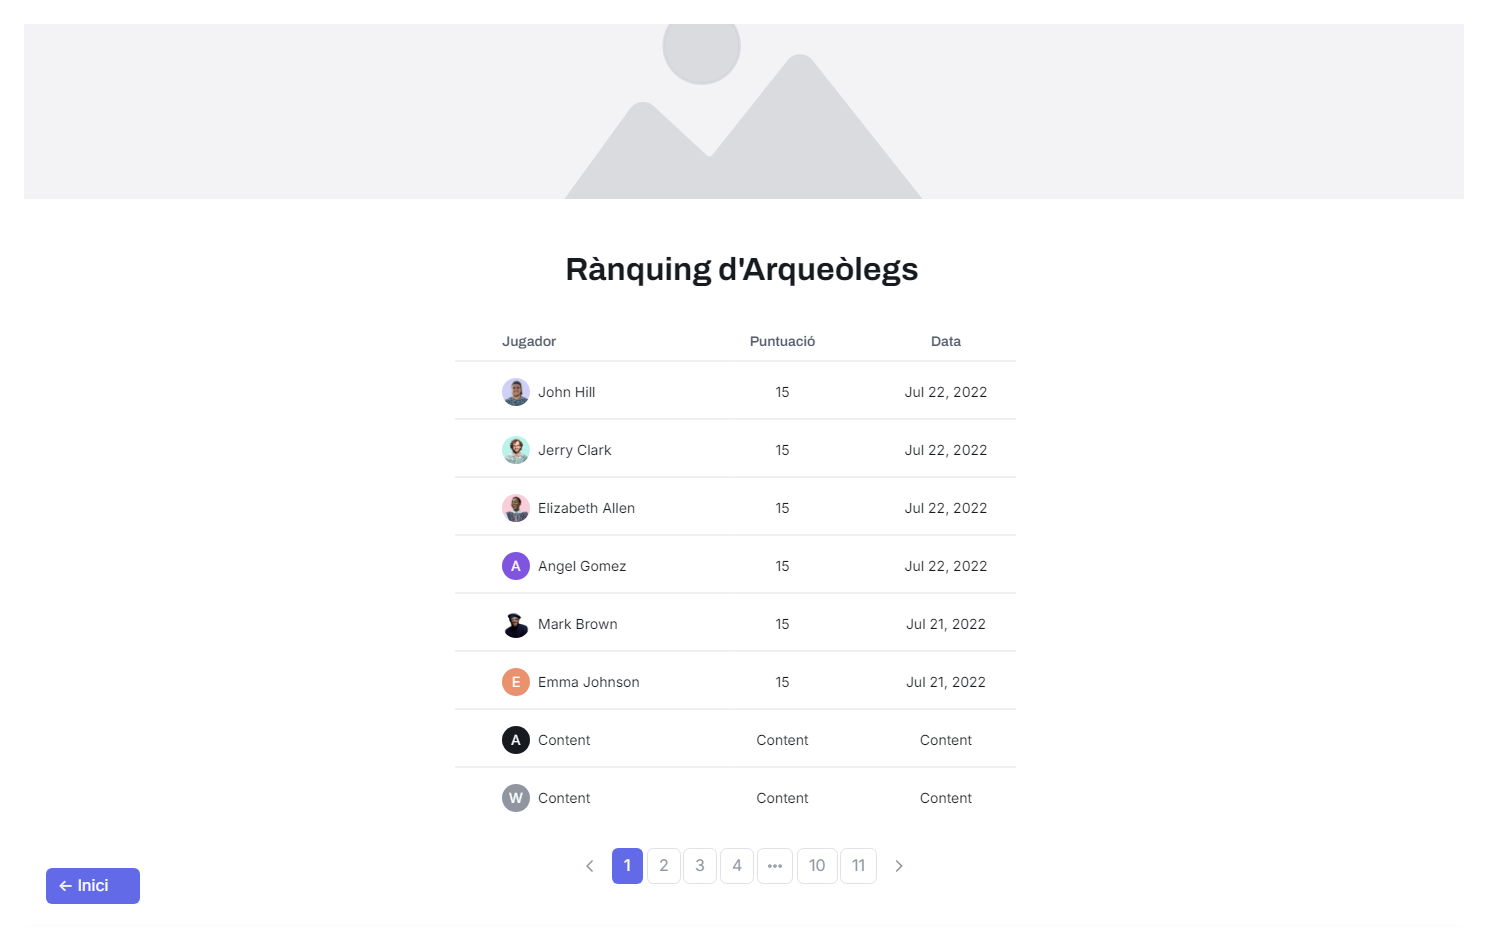
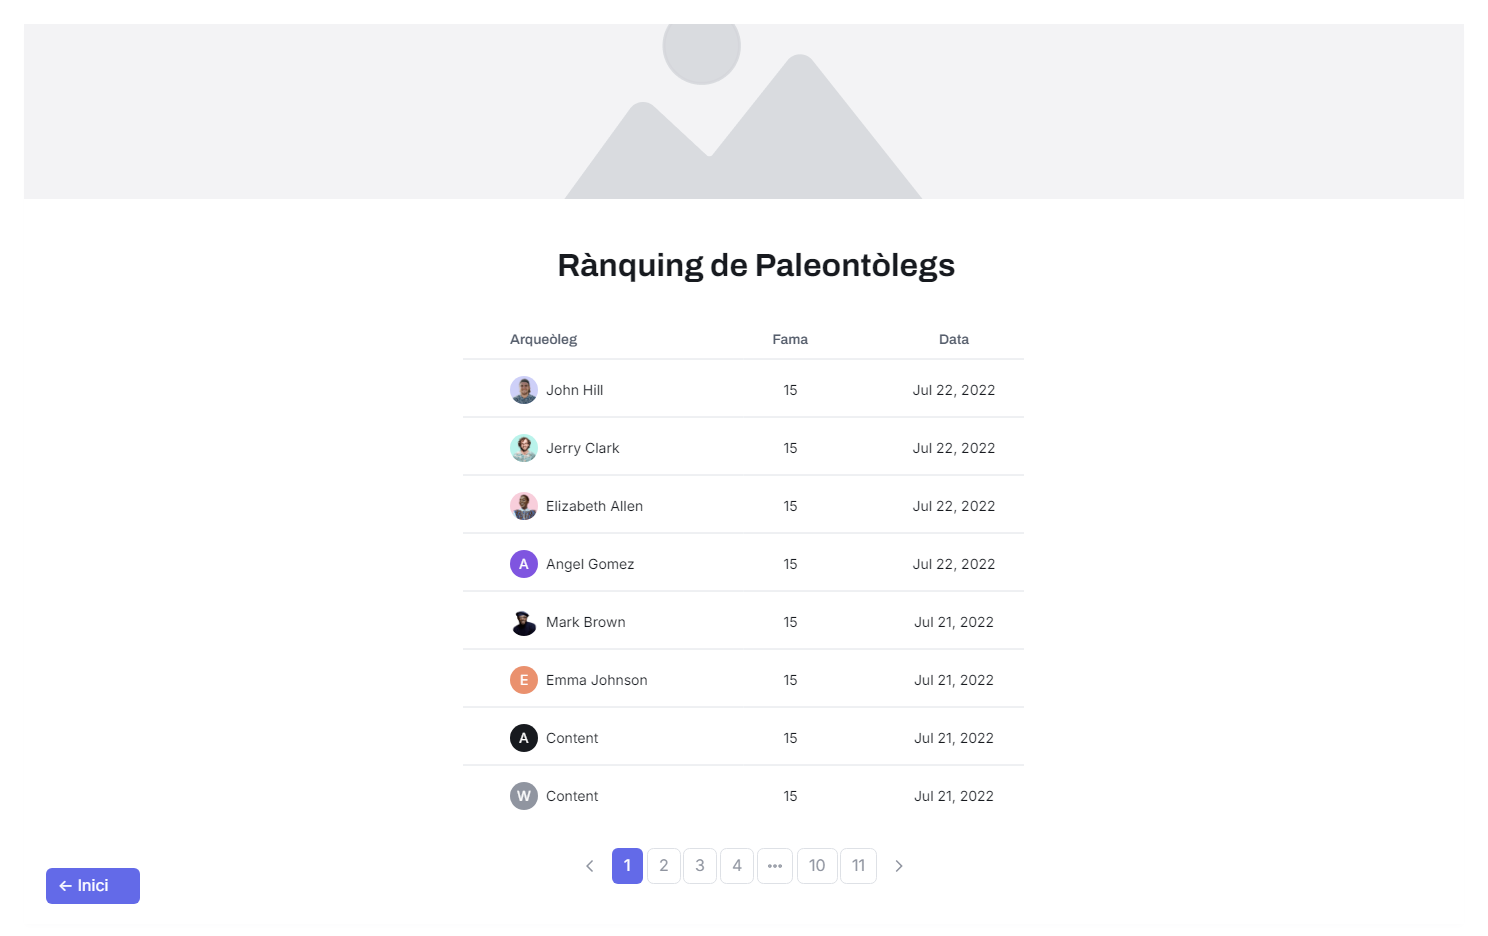
Replace de Arqueologia per Paleontologia

diff --git a/README.md b/README.md
@@ -1,36 +1,42 @@
 # 🦴 Excavació Juràssica
 
-**Benvingut a Excavació Juràssica**, un emocionant joc d'estratègia on hauràs de trobar i desenterrar tots els ossos ocults sota els sediments mil·lenaris. Converteix-te en el millor arqueòleg i fes història!
+**Benvingut a Excavació Juràssica**, un emocionant joc d'estratègia on hauràs de trobar i desenterrar tots els ossos ocults sota els sediments mil·lenaris. Converteix-te en el millor **paleontòleg** 🦕 i fes història!
 
 ## 🖼 Wireframes
 
-El joc es divideix en **3 pàgines principals**, cadascuna amb un paper fonamental per guiar-te en aquesta aventura arqueològica:
+El joc es divideix en **3 pàgines principals**, cadascuna amb un paper fonamental per guiar-te en aquesta aventura paleontològica:
 
 ### 1. Pàgina d'inici
 La primera parada en aquesta aventura! A la **Pàgina d'inici**, podràs:
-- Llegir una breu descripció sobre el joc.
-- Accedir al **Rànquing d'Arqueòlegs** per veure qui són els més prestigiosos.
-- Iniciar una nova excavació fent clic al botó de **"Començar Joc"**.
+- 📜 Llegir una breu descripció sobre el joc.
+- Accedir al **Rànquing de Paleontòlegs** 🏆 per veure qui són els més prestigiosos.
+- Iniciar una nova excavació fent clic al botó de **"Començar Joc"** 🕹.
 
-![Imatge 1: Pantalla d'Inici](./images/Mainpage.png) <!-- Aquí pots afegir l'enllaç a la imatge -->
+<div style="text-align: center;">
+  <img src="./images/main_page.png" alt="Imatge 1: Pantalla d'Inici" width="600"/>
+</div>
 
 ### 2. Pàgina de Joc
 Aquí és on comença la veritable acció! En la **Pàgina de Joc** podràs:
-- Endinsar-te en l'experiència completa d'**Excavació Juràssica**, interactuant amb el tauler.
-- Veure com la teva **fama arqueològica** augmenta amb cada troballa i excavació que realitzes.
-- Controlar el **temps d'excavació**, que es comptabilitza a mesura que progresses.
+- Endinsar-te en l'experiència completa d'**Excavació Juràssica**, interactuant amb el tauler 🦴.
+- Veure com la teva **fama paleontològica** 🏅 augmenta amb cada troballa i excavació que realitzes.
+- Controlar el **temps d'excavació** ⏳, que es comptabilitza a mesura que progresses.
 - Observar el resultat de la teva **última excavació**: què has trobat o si has de seguir excavant.
 - Consultar quins **ossos segueixen ocults** sota terra i planificar la teva pròxima jugada.
-- Seguir una **descripció detallada** que et guiarà per obtenir el màxim de **fama** i optimitzar les teves accions.
+- Seguir una **descripció detallada** 🧐 que et guiarà per obtenir el màxim de **fama** i optimitzar les teves accions.
 
-![Imatge 2: Pantalla de Joc](./images/Game_screen.png)
+<div style="text-align: center;">
+  <img src="./images/Game_screen.png" alt="Imatge 2: Pantalla de Joc" width="600"/>
+</div>
 
-### 3. Rànquing d'Arqueòlegs
-Aquesta és la pàgina dels campions! En el **Rànquing d'Arqueòlegs** podràs:
-- Veure el **rànquing** amb els arqueòlegs més famosos i amb més fama acumulada.
-- Comprovar si el teu nom ha arribat a les primeres posicions!
+### 3. Rànquing de Paleontòlegs
+Aquesta és la pàgina dels campions! En el **Rànquing de Paleontòlegs** podràs:
+- Veure el **rànquing** amb els paleontòlegs més famosos 🥇 i amb més fama acumulada.
+- Comprovar si el teu nom ha arribat a les primeres posicions! 🦕🎉
 
-![Imatge 3: Rànquing d'Arqueòlegs](./images/Hall_of_fame.png)
+<div style="text-align: center;">
+  <img src="./images/hall_of_fame.png" alt="Imatge 3: Rànquing de Paleontòlegs" width="600"/>
+</div>
 
 ---
 
@@ -38,4 +44,6 @@ Aquesta és la pàgina dels campions! En el **Rànquing d'Arqueòlegs** podràs:
 
 A continuació, es mostra un **diagrama general** del wireframe del joc, incloent les relacions entre les diferents pàgines i els botons:
 
-![Diagrama General del Wireframe](./images/wireframe.png)
+<div style="text-align: center;">
+  <img src="./images/wireframe.png" alt="Diagrama General del Wireframe"/>
+</div>
